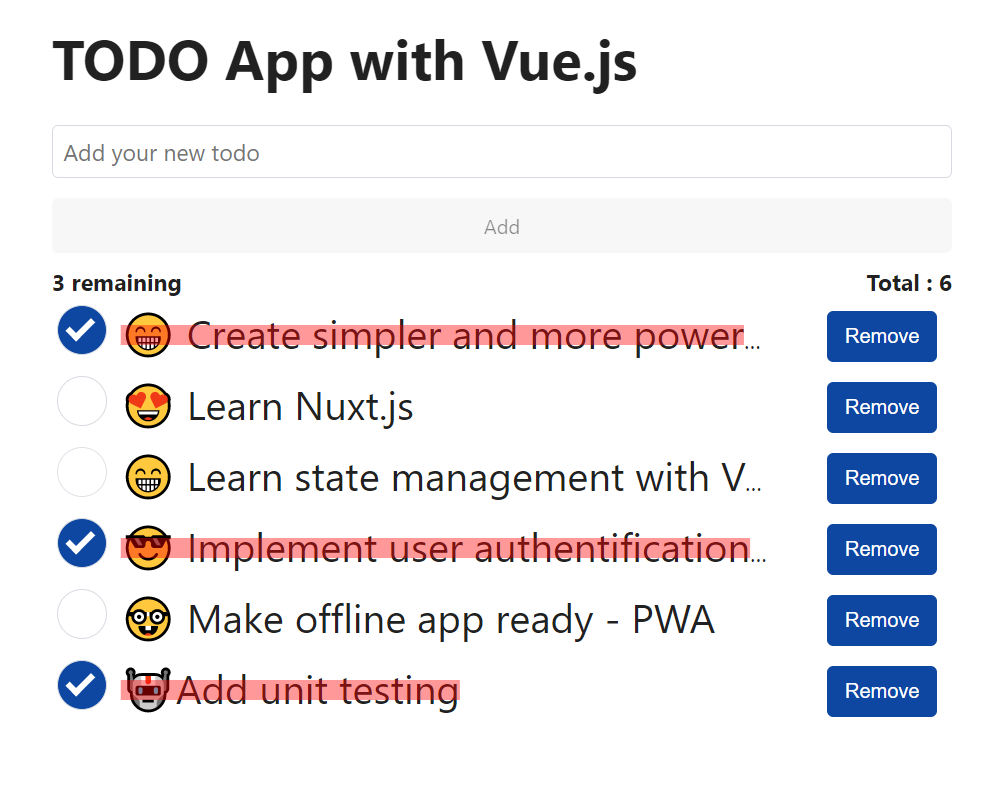
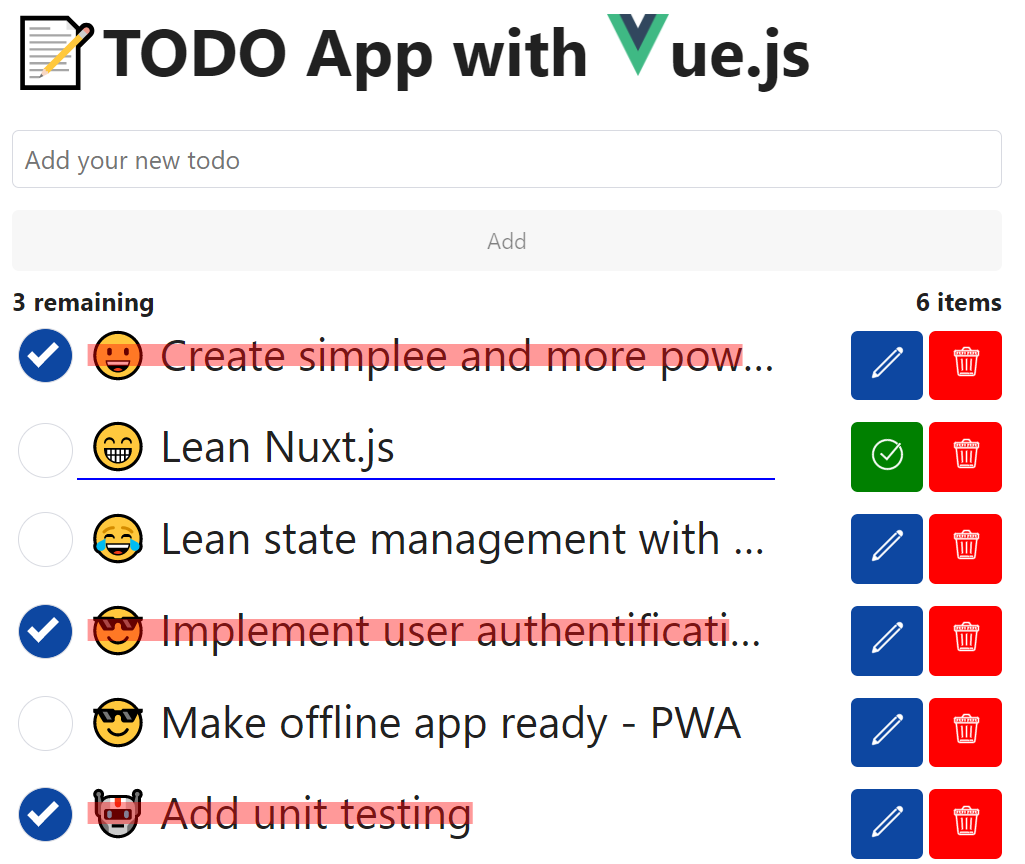
add update feature | ui improvements

diff --git a/components/TodoList.js b/components/TodoList.js
@@ -1,29 +1,52 @@
-app.component('todo-list', {
+app.component("todo-list", {
     props: {
         items: {
             type: Array,
-            required: true
-        }
+            required: true,
+        },
     },
     template: `
         <div class="todo-list">
-            <div v-for="item in items" class="todo-item" :key="item.id">
+            <div v-for="item in items" class="todo-item" :key="item.id" ref="items">
                 <div class="todo-item-display">
                     <input type="checkbox" :checked="item.checked" @click="terminateItem(item.id)" :id="item.id"/>
-                    <label :for="item.id">{{item.title}}</label>
+                    <label contenteditable="false"  @keyup.enter="updateItem(item.id)">{{item.title}}</label>
                 </div>
                 <div class="todo-item-action">
-                    <button @click="removeItem(item.id)">Remove</button>
+                    <button @click="updateItem(item.id)">
+                        <img src="./assets/images/edit-icon.svg" width="24">
+                    </button>
+                    <button class="remove-button" @click="removeItem(item.id)">
+                        <img src="./assets/images/trash-icon.svg" width="24">
+                    </button>
                 </div>
             </div>
         </div>`,
 
     methods: {
+        updateItem(id) {
+            const label = this.$refs.items[id - 1].querySelector("label")
+            const button = this.$refs.items[id - 1].querySelector(".todo-item-action button")
+            const img = this.$refs.items[id - 1].querySelector(".todo-item-action img")
+            if ('false' == label.contentEditable) {
+                label.contentEditable = 'true';
+                label.focus();
+                label.style.borderBottom = "2px solid blue";
+                button.classList.add('edit-button')
+                img.src = './assets/images/check-icon.svg';
+            } else {
+                label.contentEditable = 'false';
+                label.style.borderBottom = "0 solid blue";
+                button.classList.remove('edit-button')
+                img.src = './assets/images/edit-icon.svg';
+                this.$emit("update-item", id, label.textContent);
+            }
+        },
         removeItem(id) {
-            this.$emit('remove-item', id)
+            this.$emit("remove-item", id);
         },
         terminateItem(id) {
-            this.$emit('terminate-item', id)
-        }
-    }
-})
+            this.$emit("terminate-item", id);
+        },
+    },
+});

diff --git a/assets/css/style.css b/assets/css/style.css
@@ -1,0 +1,86 @@
+.form-control {
+    width: 100%;
+}
+
+.form-invalid {
+    color: #ff0000;
+    font-style: italic;
+}
+
+.todo-item {
+    display: flex;
+    justify-content: space-between;
+}
+
+.todo-item input {
+   width: 40px;
+   height: 40px;
+   border-radius: 50%;
+   font-size: 36px;
+   cursor: pointer;
+}
+
+.todo-item input[type=checkbox]:checked::after {
+    top: 0.08em;
+}
+
+.todo-item label {
+    display: inline-block;
+    font-size: 2rem;
+    padding-left: 8px;
+    white-space: nowrap;
+    text-overflow: ellipsis;
+    overflow: hidden;
+    width: 500px;
+    outline: 0;
+}
+
+.todo-info {
+    display: flex;
+    justify-content: space-between;
+    font-weight: bold;
+}
+
+input + label {
+    cursor: pointer;
+}
+
+input:checked + label {
+    text-decoration: line-through 16px rgba(255, 0, 0, 0.4);
+}
+
+input.disabledButton {
+    color: black;
+}
+
+.todo-item-display {
+    flex-grow: 0;
+    flex-basis: 80%;
+    text-overflow: ellipsis;
+    overflow: hidden;
+    white-space: nowrap;
+}
+
+.todo-item-action {
+    flex-basis: 110px;
+    display: flex;
+    justify-content: space-between;
+}
+
+.remove-button {
+    background-color: red;
+}
+
+.edit-button {
+    background-color: green;
+}
+
+@media screen and (max-width: 600px) {
+    html {
+        font-size: 13px;
+    }
+    
+    .todo-item input[type=text] {
+        font-size: 1.15rem;
+    }
+  }

diff --git a/index.html b/index.html
@@ -7,14 +7,17 @@
         <meta name="description" content="TODO App with Vue.js" />
         <link rel="stylesheet" href="https://cdn.simplecss.org/simple.min.css" />
         <title>TODO App with Vue.js</title>
-        <link rel="stylesheet" href="assets/style.css">
-        <link rel="shortcut icon" href="assets/images/todo-icon.png" type="image/png">
+        <link rel="stylesheet" href="assets/css/style.css" />
+        <link rel="shortcut icon" href="assets/images/todo-icon.png" type="image/png" />
         <!-- Import vue.js -->
         <script src="https://unpkg.com/vue@next"></script>
     </head>
     <body>
         <div id="app">
-            <h1>TODO App with Vue.js</h1>
+            <h1>
+                📝TODO App with 
+                <img src="./assets/images/logo-vue.png" alt="logo vue.js" width="45" height="45" />ue.js
+            </h1>
             <todo-form></todo-form>
         </div>
         <!-- Import App -->
@@ -27,7 +30,7 @@
 
         <!-- Mount App -->
         <script>
-            const mountApp = app.mount("#app")
+            const mountApp = app.mount("#app");
         </script>
     </body>
 </html>

diff --git a/components/TodoForm.js b/components/TodoForm.js
@@ -12,7 +12,7 @@ app.component("todo-form", {
             </div>
         </div>
         <todo-info :details="details"></todo-info>
-        <todo-list :items="items" @remove-item="removeItem" @terminate-item="terminateItem"></todo-list>`,
+        <todo-list :items="items" @remove-item="removeItem" @update-item="updateItem" @terminate-item="terminateItem"></todo-list>`,
     data() {
         return {
             items: [],
@@ -37,6 +37,10 @@ app.component("todo-form", {
             this.items.splice(index, 1)
             this.details.total = this.items.length
             this.details.done = this.items.reduce((acc, item) => acc + item.checked, 0)
+        },
+        updateItem(id, title) {
+            const index = this.items.findIndex( item => item.id === id)
+            this.items[index].title = title
         },
         terminateItem(id) {
              const index = this.items.findIndex( item => item.id === id)

diff --git a/components/TodoInfo.js b/components/TodoInfo.js
@@ -7,6 +7,6 @@ app.component('todo-info', {
     },
     template: `
         <div class="todo-info">
-            <div>{{ details.total - details.done }} remaining</div> <div>Total : {{ details.total  }}</div>
+            <div>{{ details.total - details.done }} remaining</div> <div>{{ details.total }} item<span v-if="details.total > 1">s</span></div>
         </div>`
 })

diff --git a/README.md b/README.md
@@ -17,14 +17,21 @@
 ### [📗 Guide Introduction Vue.js](https://v3.vuejs.org/guide/introduction.html)
 
 * Components
+    - Define a component
+    - Use a component
+    - Attribute, class, style, form input binding
+    - Listen to events
+    - Declare methods
+    - Passing props
+    - Emit and listen to custom events
 * Directives
-* Methods
-* Props
-* Attribute binding
+    - v-if
+    - v-for
+    - v-model
+    - v-on
 * Special Attributes
-* Rendering
-* Events
-* Forms and v-model
+    - key
+    - ref
 * Shorthand syntax
 
 ## [🚀 Demo link](https://sfinx13.github.io/todo-app-vuejs/)
